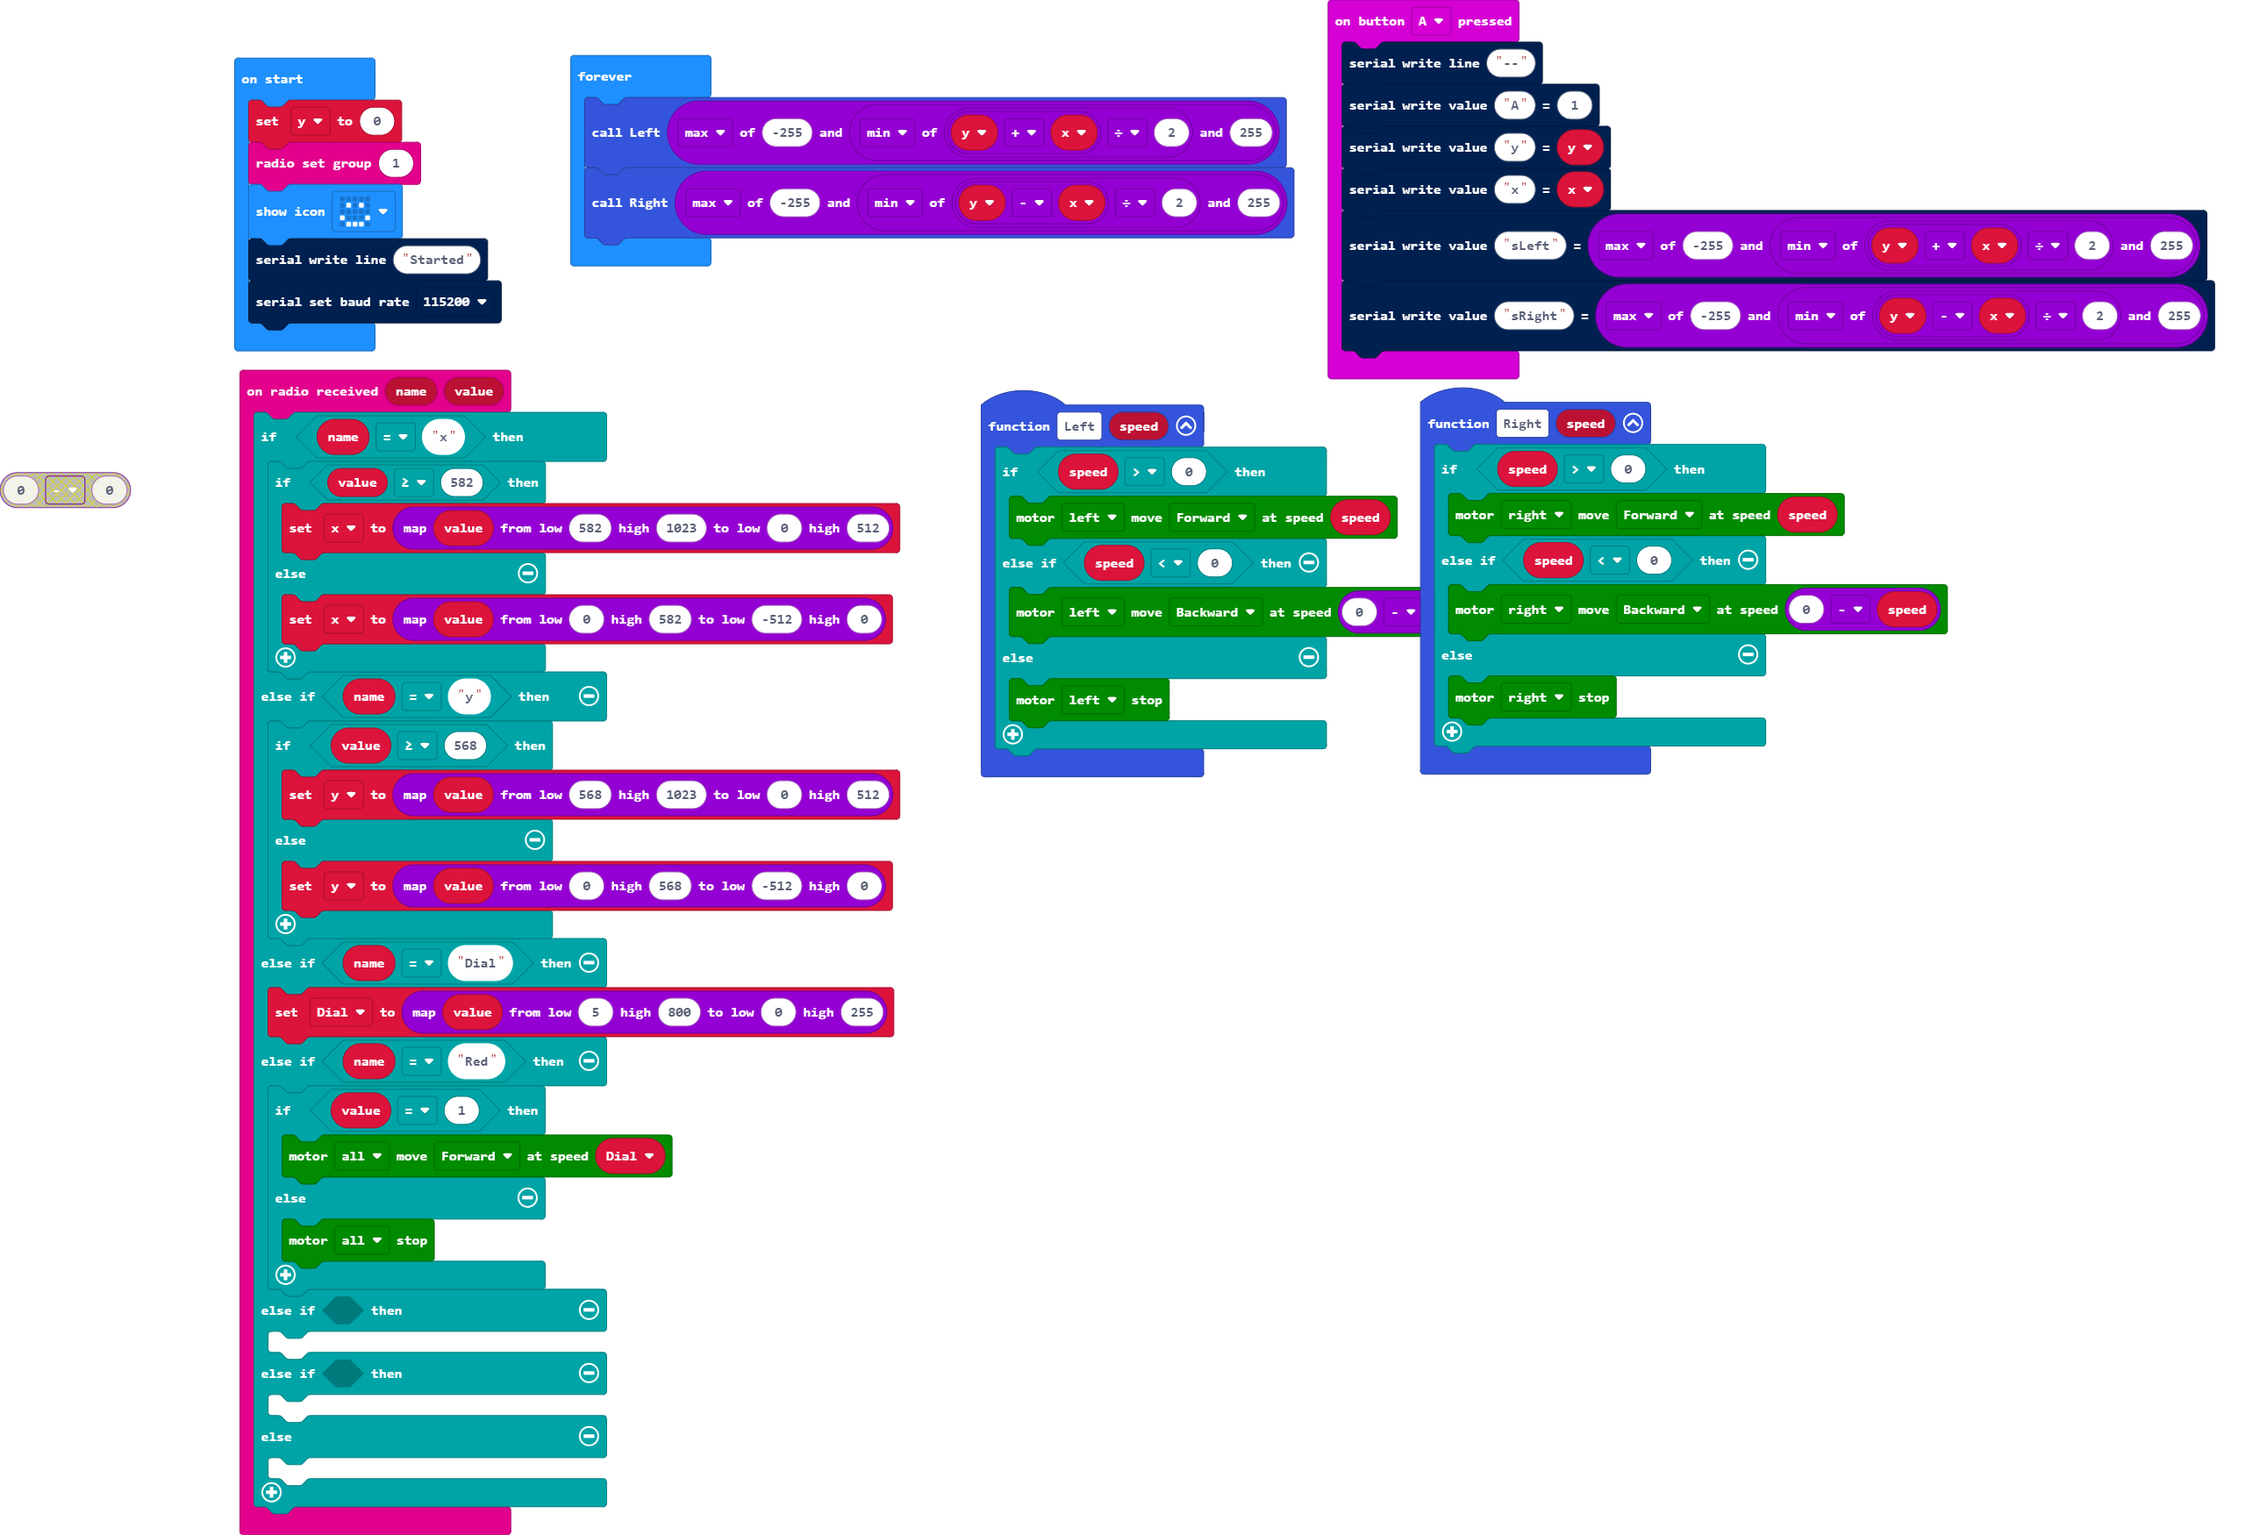
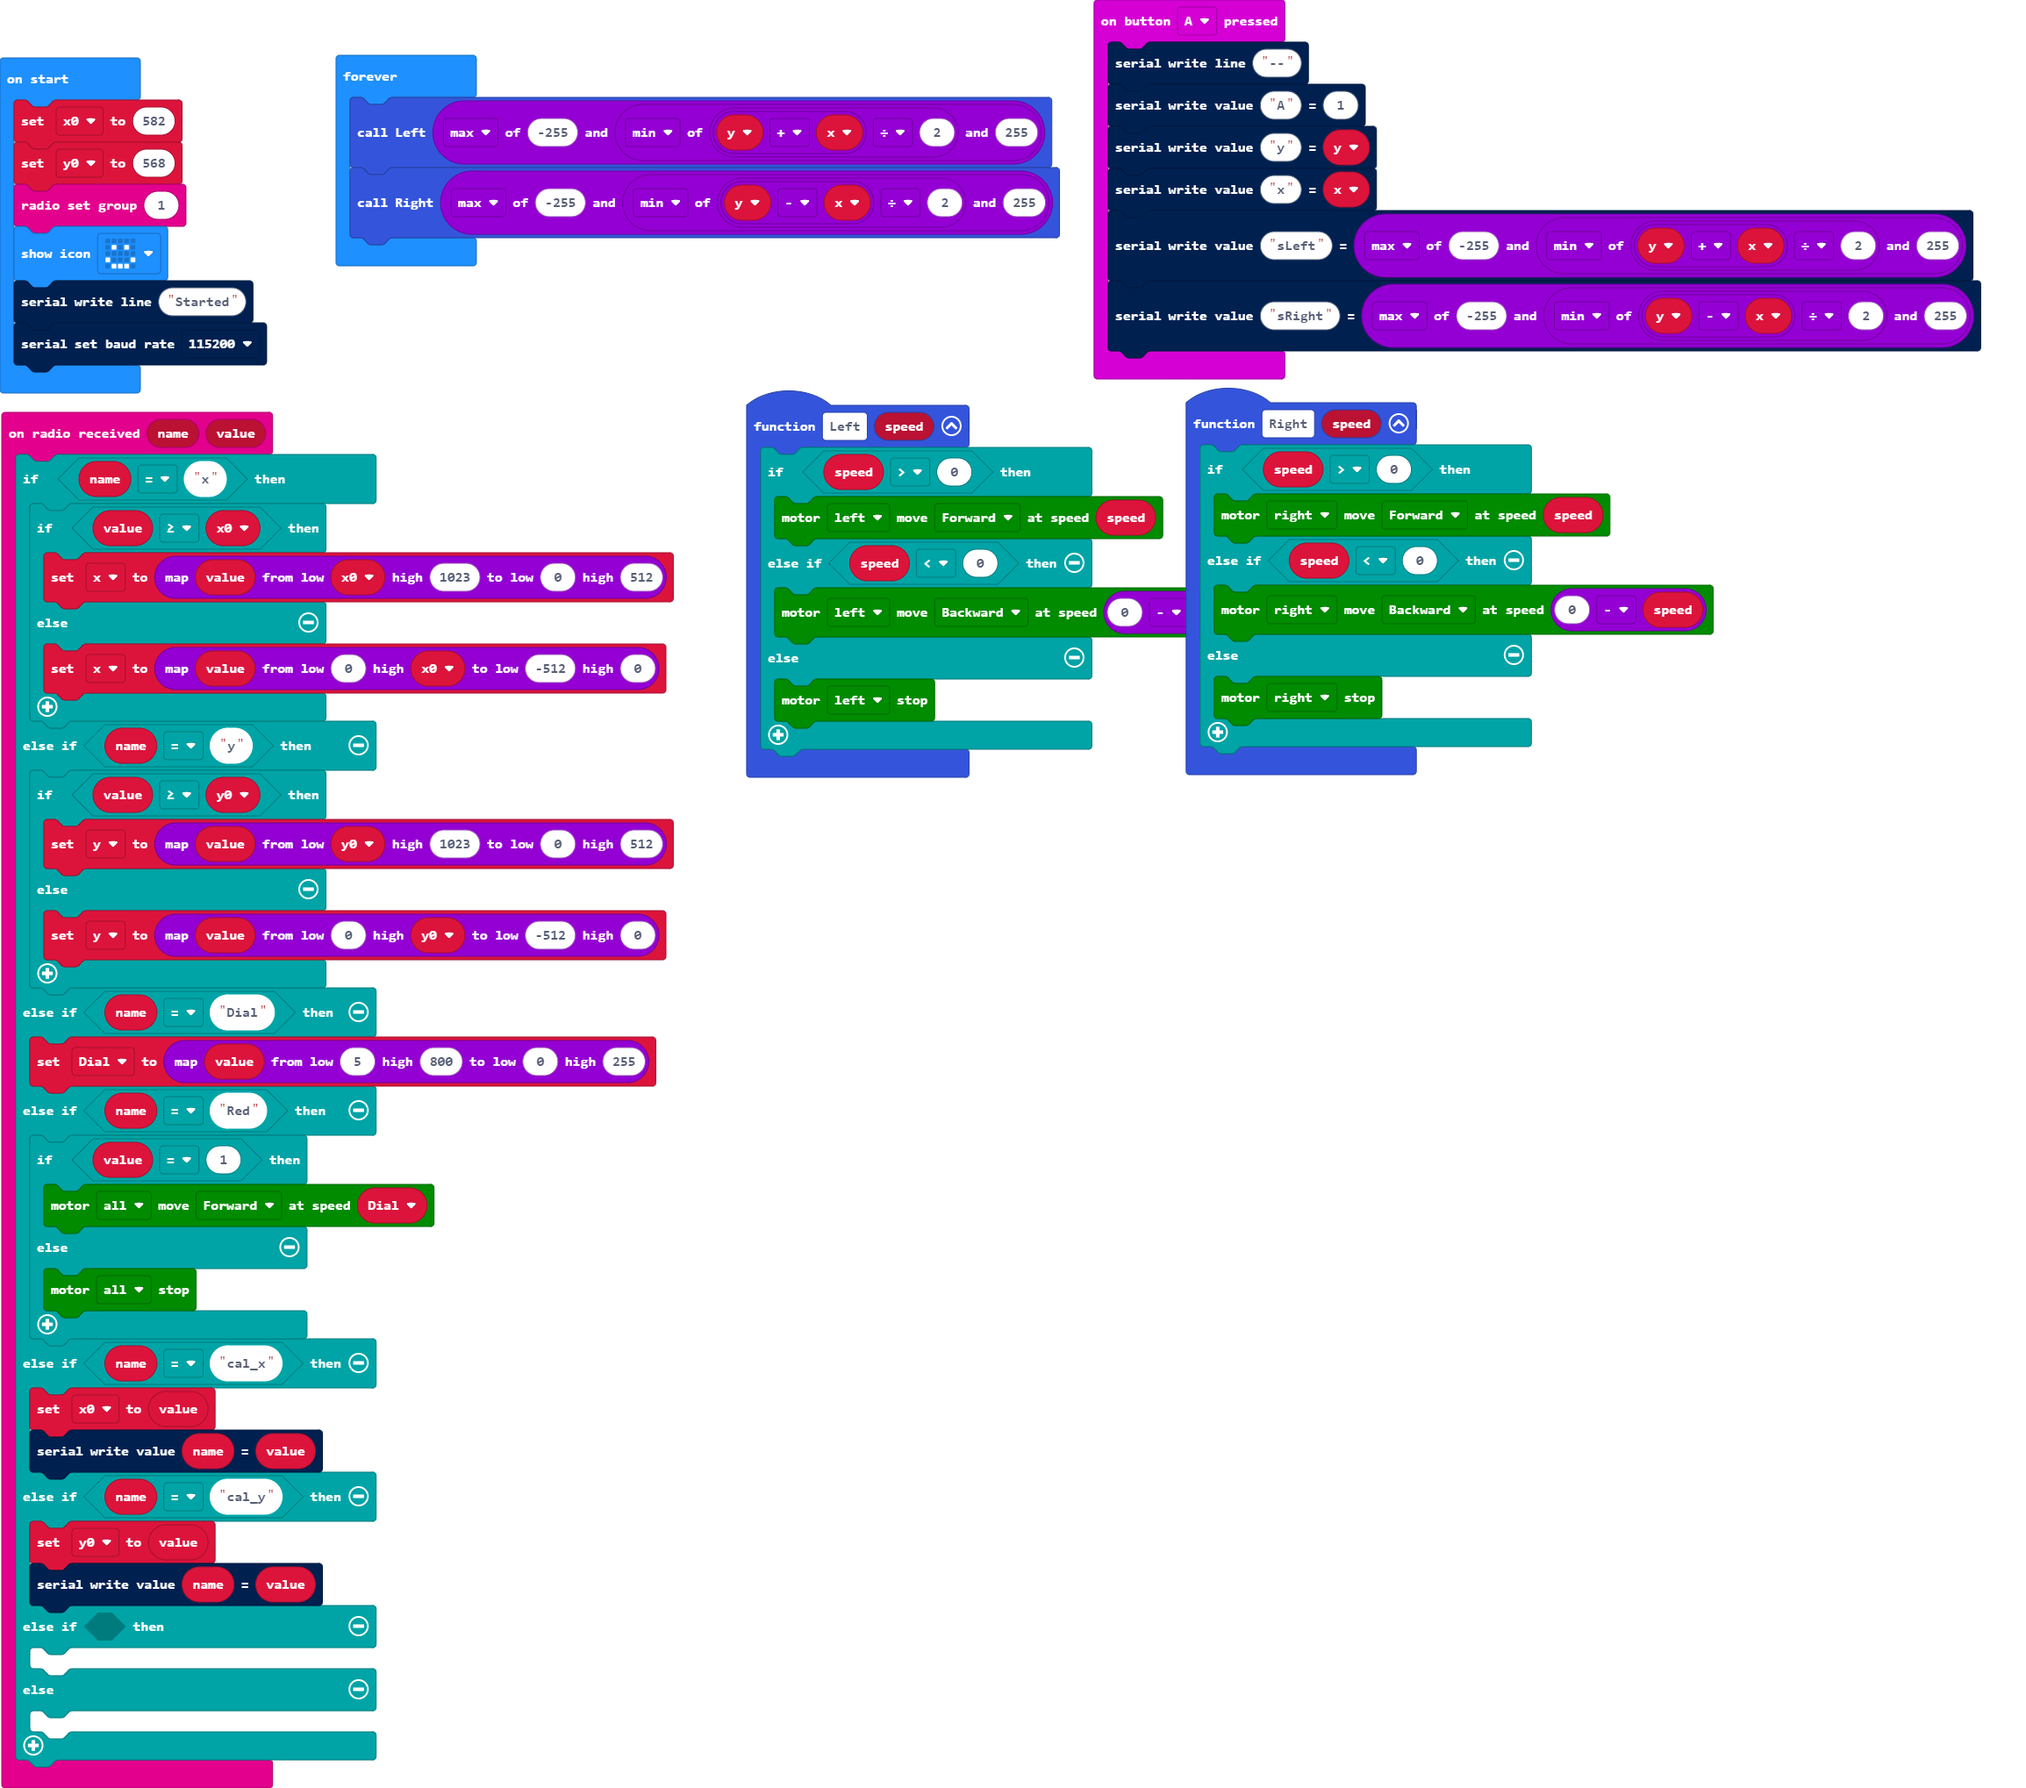
Get joystick calibration info

diff --git a/main.ts b/main.ts
@@ -17,16 +17,16 @@ input.onButtonPressed(Button.A, function () {
 })
 radio.onReceivedValue(function (name, value) {
     if (name == "x") {
-        if (value >= 582) {
-            x = Math.map(value, 582, 1023, 0, 512)
+        if (value >= x0) {
+            x = Math.map(value, x0, 1023, 0, 512)
         } else {
-            x = Math.map(value, 0, 582, -512, 0)
+            x = Math.map(value, 0, x0, -512, 0)
         }
     } else if (name == "y") {
-        if (value >= 568) {
-            y = Math.map(value, 568, 1023, 0, 512)
+        if (value >= y0) {
+            y = Math.map(value, y0, 1023, 0, 512)
         } else {
-            y = Math.map(value, 0, 568, -512, 0)
+            y = Math.map(value, 0, y0, -512, 0)
         }
     } else if (name == "Dial") {
         Dial = Math.map(value, 5, 800, 0, 255)
@@ -36,8 +36,12 @@ radio.onReceivedValue(function (name, value) {
         } else {
             maqueen.motorStop(maqueen.Motors.All)
         }
-    } else if (false) {
-    	
+    } else if (name == "cal_x") {
+        x0 = value
+        serial.writeValue(name, value)
+    } else if (name == "cal_y") {
+        y0 = value
+        serial.writeValue(name, value)
     } else if (false) {
     	
     } else {
@@ -56,7 +60,10 @@ function Right (speed: number) {
 let Dial = 0
 let x = 0
 let y = 0
-y = 0
+let y0 = 0
+let x0 = 0
+x0 = 582
+y0 = 568
 radio.setGroup(1)
 basic.showIcon(IconNames.Happy)
 serial.writeLine("Started")
